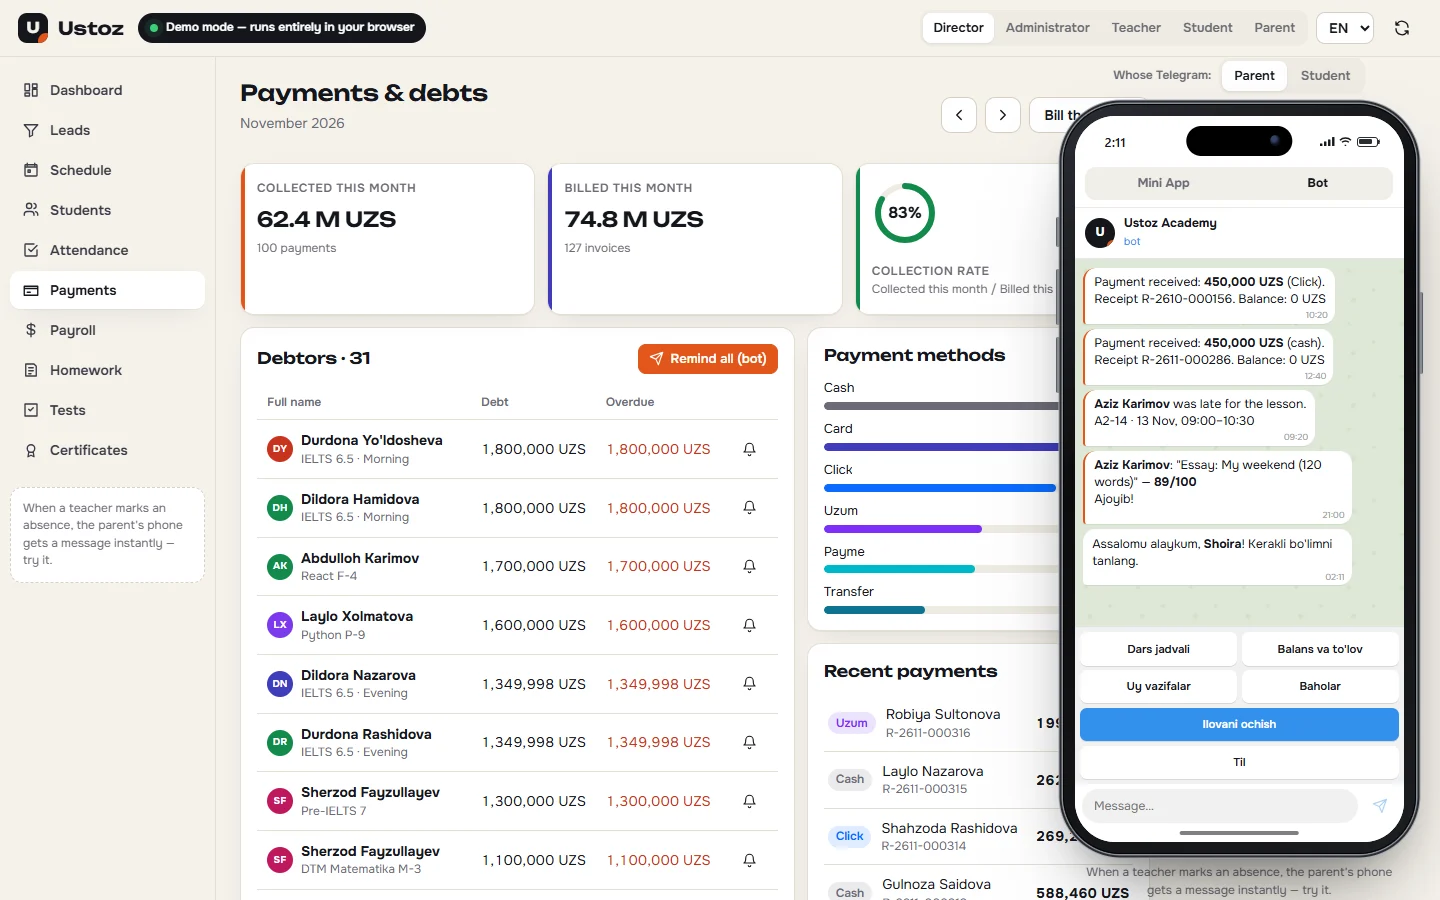
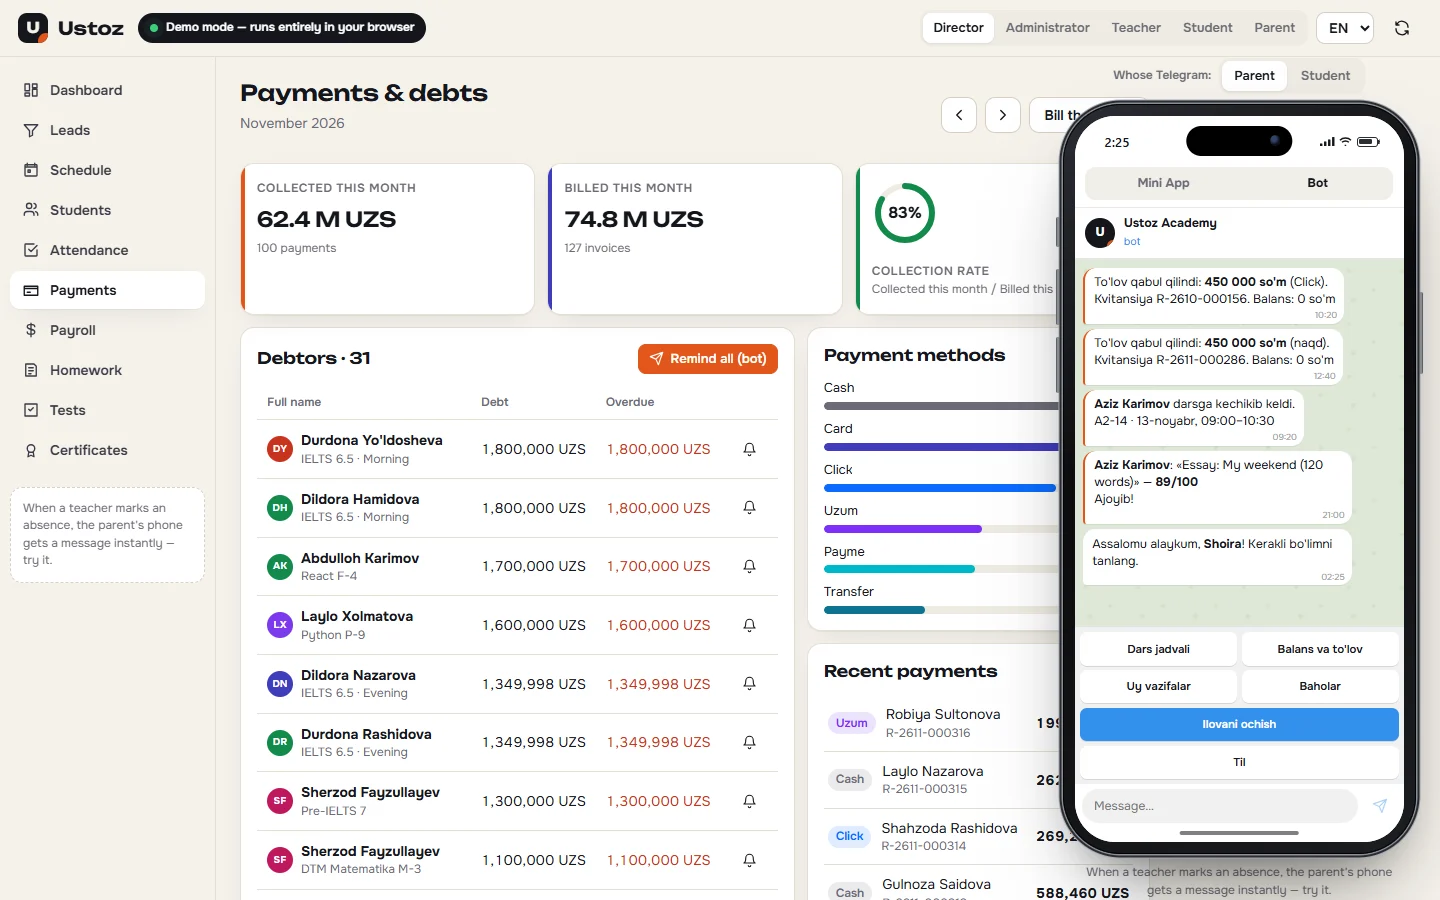
Try-this guidance for student and parent views; notifications in the recipient's language; refreshed media

Changed region(s): [[0.75, 0.28, 0.9375, 0.56]]

diff --git a/packages/i18n/src/web.ts b/packages/i18n/src/web.ts
@@ -10,6 +10,13 @@ const WEB_SHELL: Record<string, [string, string, string]> = {
   'demo.phoneOf': ['Telefon', 'Телефон', 'Phone'],
   'demo.phoneHint': ['O\'qituvchi davomat belgilasa, ota-ona telefoniga darhol xabar keladi — sinab ko\'ring.', 'Учитель отмечает пропуск — родителю сразу приходит сообщение. Попробуйте.', 'When a teacher marks an absence, the parent\'s phone gets a message instantly — try it.'],
   'demo.familyHint': ["Bu — Telegram ichidagi ilova va bot. Jadval, baholar, testlar va to'lov shu yerda. Yuqoridan boshqa rolga o'ting.", 'Это приложение и бот внутри Telegram: расписание, оценки, тесты и оплата. Переключите роль сверху.', 'This is the app and bot inside Telegram: schedule, grades, tests and payments. Switch roles at the top.'],
+  'try.title': ["Sinab ko'ring", "Попробуйте", "Try this"],
+  'try.student.1': ["Testlar — yangi testni yeching va reytingni ko'ring", "Тесты — решите новый тест и посмотрите рейтинг", "Tests — take the new quiz and see the leaderboard"],
+  'try.student.2': ["Bot — «Uy vazifalar» → «Topshirish», keyin rasm yuboring", "Бот — «Домашние задания» → «Сдать», затем отправьте фото", "Bot — Homework → Submit, then send a photo"],
+  'try.student.3': ["O'sish — baholar va davomat grafiklari", "Прогресс — графики оценок и посещаемости", "Progress — grade and attendance charts"],
+  'try.parent.1': ["Mini App — Madina uchun qarzni Payme, Click yoki Uzum orqali to'lang (sandbox)", "Mini App — оплатите долг Мадины через Payme, Click или Uzum (песочница)", "Mini App — pay Madina's fee with Payme, Click or Uzum (sandbox)"],
+  'try.parent.2': ["Bot — «Balans va to'lov» va «Baholar» ikkala farzand uchun", "Бот — «Баланс и оплата» и «Оценки» по обоим детям", "Bot — Balance and Grades for both children"],
+  'try.parent.3': ["Bot — «Til» tugmasi: ruscha yoki inglizcha", "Бот — кнопка «Язык»: русский или английский", "Bot — the Language button: Russian or English"],
   'demo.ready': ['Tayyor: {ms} ms ichida brauzerda ishga tushdi', 'Готово: запущено в браузере за {ms} мс', 'Ready: started in your browser in {ms} ms'],
   'boot.loading': ['Ma\'lumotlar bazasi yuklanmoqda…', 'Загружаем базу данных…', 'Loading the database…'],
   'boot.seeding': ['Bugungi kun uchun ma\'lumotlar tayyorlanmoqda…', 'Готовим данные на сегодня…', 'Preparing today\'s data…'],

diff --git a/apps/web/src/shell/DemoShell.tsx b/apps/web/src/shell/DemoShell.tsx
@@ -140,6 +140,15 @@ export function DemoShell() {
               <span className="badge badge-accent" style={{ justifySelf: 'start' }}>{t(`role.${role}`)}</span>
               <h1>{t('mini.hello', { name: role === 'student' ? 'Aziz' : 'Shoira' })}</h1>
               <p className="muted">{t('demo.familyHint')}</p>
+              <div className="try-card">
+                <b>{t('try.title')}</b>
+                {[1, 2, 3].map((n) => (
+                  <motion.div key={`${role}-${n}`} className="try-item" initial={{ opacity: 0, x: -8 }} animate={{ opacity: 1, x: 0 }} transition={{ delay: 0.15 + n * 0.08 }}>
+                    <span className="try-num">{n}</span>
+                    <span>{t(`try.${role}.${n}`)}</span>
+                  </motion.div>
+                ))}
+              </div>
             </div>
             <TelegramPane staffRole={role} />
             <div className="family-right" />

diff --git a/apps/web/src/styles/shell.css b/apps/web/src/styles/shell.css
@@ -32,6 +32,9 @@
 .family-side { padding: 32px; display: grid; align-content: center; gap: 14px; max-width: 420px; justify-self: end; }
 .family-side h1 { font-size: 26px; line-height: 1.2; }
 .family-right { padding: 32px; align-self: center; }
+.try-card { display: grid; gap: 10px; padding: 16px; border-radius: var(--radius); background: var(--surface); border: 1px solid var(--line); box-shadow: var(--shadow); }
+.try-item { display: flex; gap: 10px; align-items: flex-start; font-size: 13px; }
+.try-num { flex: none; width: 22px; height: 22px; border-radius: 50%; display: grid; place-items: center; background: var(--accent-soft); color: var(--accent-ink); font-weight: 700; font-size: 12px; }
 
 /* ── phone ── */
 .phone { --ph: min(812px, calc(100vh - 150px)); position: relative; height: var(--ph); aspect-ratio: 392 / 832; border-radius: 58px; padding: 12px; flex: none;
